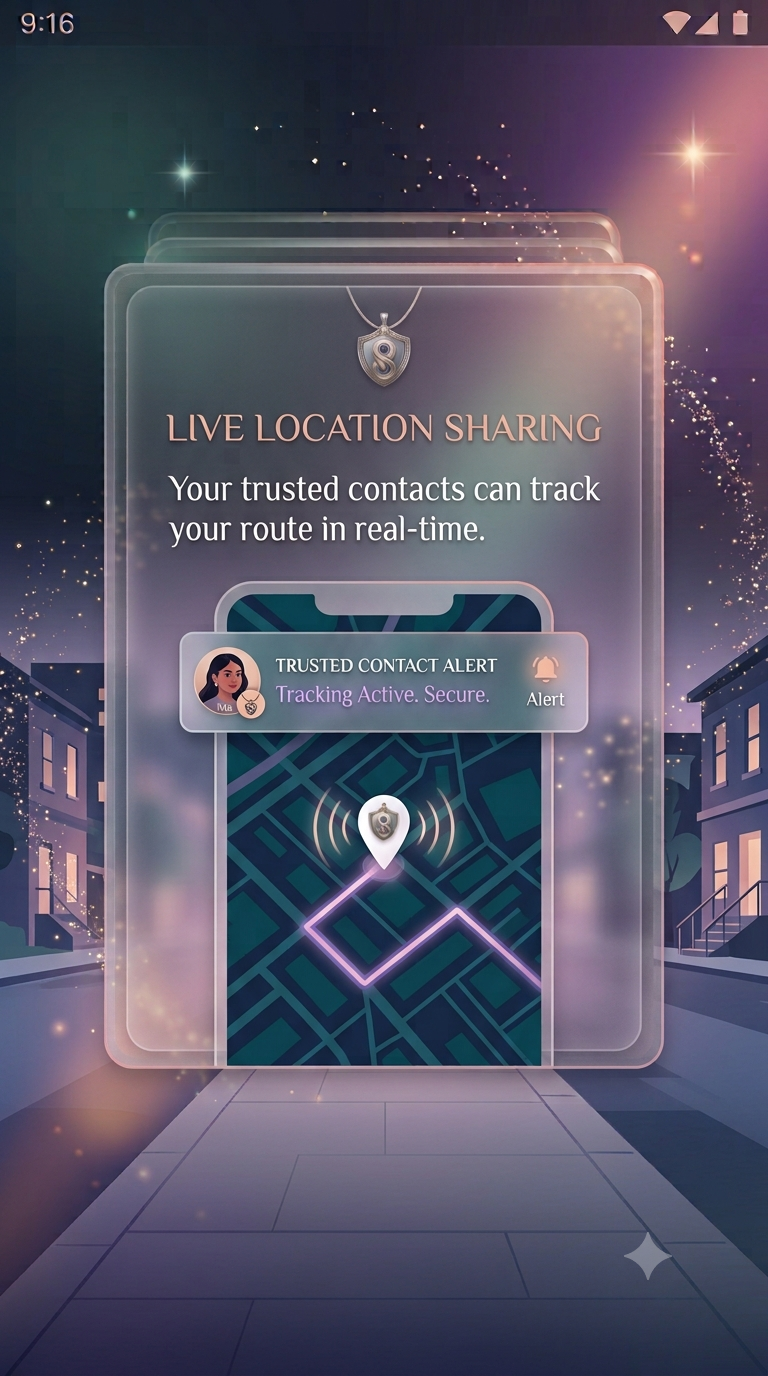
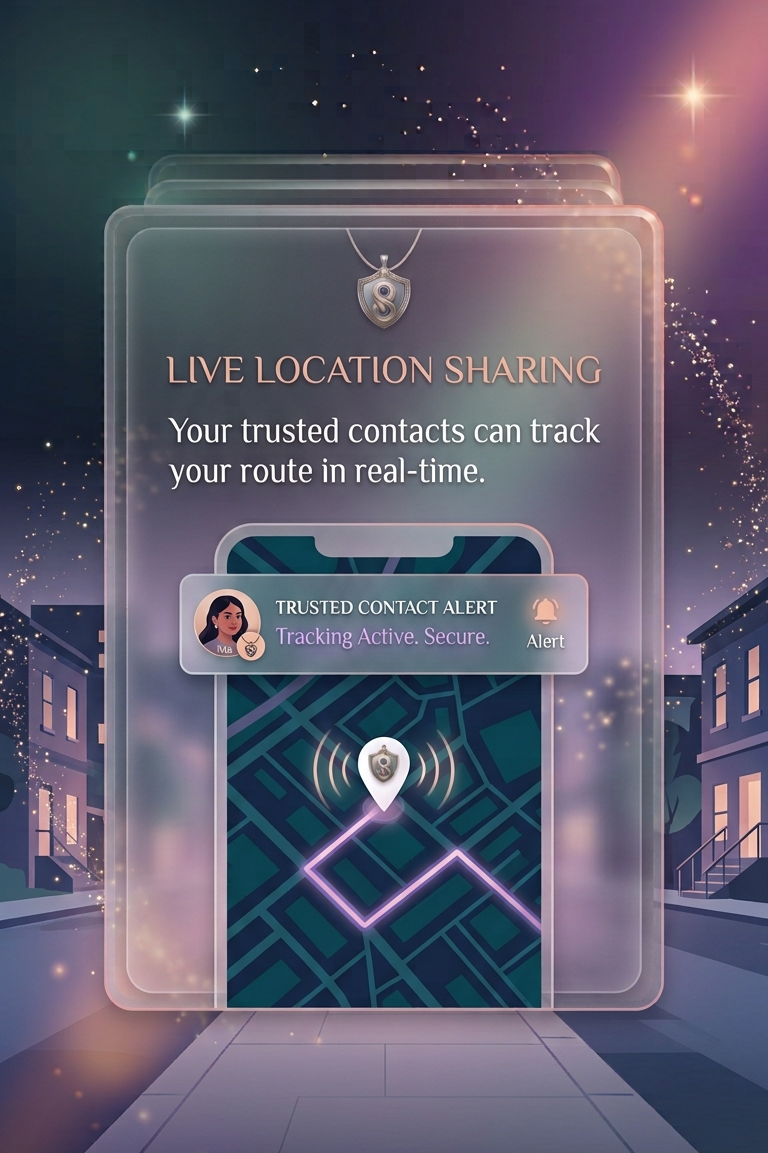
Added onboarding screen with Next button using BLoC

diff --git a/saferoute_saheli/lib/onboarding/onboarding2.dart b/saferoute_saheli/lib/onboarding/onboarding2.dart
@@ -1,0 +1,91 @@
+import 'package:flutter/material.dart';
+import 'package:flutter_bloc/flutter_bloc.dart';
+
+import '../blocs/onboarding/onboarding_bloc.dart';
+import '../widgets/next_button.dart';
+import 'login_screen.dart';
+
+class OnboardingScreen extends StatelessWidget {
+
+  const OnboardingScreen({super.key});
+
+  @override
+  Widget build(BuildContext context) {
+
+    return BlocConsumer<OnboardingBloc, OnboardingState>(
+
+      listener: (context, state) {
+
+        if (state is NavigateToLogin) {
+
+          Navigator.pushReplacement(
+            context,
+            MaterialPageRoute(
+              builder: (_) => const LoginScreen(),
+            ),
+          );
+
+        }
+
+      },
+
+      builder: (context, state) {
+
+        return Scaffold(
+
+          backgroundColor: Colors.black,
+
+          body: SafeArea(
+
+            child: Padding(
+
+              padding: const EdgeInsets.all(20),
+
+              child: Column(
+
+                children: [
+
+                  Expanded(
+
+                    child: Center(
+
+                      child: Image.asset(
+                        "assets/images/onboarding.png",
+                        fit: BoxFit.contain,
+                      ),
+
+                    ),
+
+                  ),
+
+                  NextButton(
+
+                    onPressed: () {
+
+                      context.read<OnboardingBloc>().add(
+                        NextPressed(),
+                      );
+
+                    },
+
+                  ),
+
+                  const SizedBox(height: 20),
+
+                ],
+
+              ),
+
+            ),
+
+          ),
+
+        );
+
+      },
+
+    );
+
+  }
+
+}

diff --git a/saferoute_saheli/lib/screens/onboarding_screen.dart b/saferoute_saheli/lib/screens/onboarding_screen.dart
@@ -1,0 +1,91 @@
+import 'package:flutter/material.dart';
+import 'package:flutter_bloc/flutter_bloc.dart';
+
+import '../blocs/onboarding/onboarding_bloc.dart';
+import '../widgets/next_button.dart';
+import 'login_screen.dart';
+
+class OnboardingScreen extends StatelessWidget {
+
+  const OnboardingScreen({super.key});
+
+  @override
+  Widget build(BuildContext context) {
+
+    return BlocConsumer<OnboardingBloc, OnboardingState>(
+
+      listener: (context, state) {
+
+        if (state is NavigateToLogin) {
+
+          Navigator.pushReplacement(
+            context,
+            MaterialPageRoute(
+              builder: (_) => const LoginScreen(),
+            ),
+          );
+
+        }
+
+      },
+
+      builder: (context, state) {
+
+        return Scaffold(
+
+          backgroundColor: Colors.black,
+
+          body: SafeArea(
+
+            child: Padding(
+
+              padding: const EdgeInsets.all(20),
+
+              child: Column(
+
+                children: [
+
+                  Expanded(
+
+                    child: Center(
+
+                      child: Image.asset(
+                        "assets/images/onboarding.png",
+                        fit: BoxFit.contain,
+                      ),
+
+                    ),
+
+                  ),
+
+                  NextButton(
+
+                    onPressed: () {
+
+                      context.read<OnboardingBloc>().add(
+                        NextPressed(),
+                      );
+
+                    },
+
+                  ),
+
+                  const SizedBox(height: 20),
+
+                ],
+
+              ),
+
+            ),
+
+          ),
+
+        );
+
+      },
+
+    );
+
+  }
+
+}

diff --git a/saferoute_saheli/lib/onboarding/widgets/next_button.dart b/saferoute_saheli/lib/onboarding/widgets/next_button.dart
@@ -1,0 +1,40 @@
+import 'package:flutter/material.dart';
+
+class NextButton extends StatelessWidget {
+
+  final VoidCallback onPressed;
+
+  const NextButton({
+    super.key,
+    required this.onPressed,
+  });
+
+  @override
+  Widget build(BuildContext context) {
+
+    return SizedBox(
+      width: double.infinity,
+      height: 55,
+      child: ElevatedButton(
+
+        style: ElevatedButton.styleFrom(
+          backgroundColor: Colors.deepPurple,
+          shape: RoundedRectangleBorder(
+            borderRadius: BorderRadius.circular(15),
+          ),
+        ),
+
+        onPressed: onPressed,
+
+        child: const Text(
+          "Next",
+          style: TextStyle(
+            color: Colors.white,
+            fontSize: 18,
+          ),
+        ),
+
+      ),
+    );
+  }
+}

diff --git a/saferoute_saheli/lib/screens/login_screen.dart b/saferoute_saheli/lib/screens/login_screen.dart
@@ -1,0 +1,25 @@
+import 'package:flutter/material.dart';
+
+class LoginScreen extends StatelessWidget {
+
+  const LoginScreen({super.key});
+
+  @override
+  Widget build(BuildContext context) {
+
+    return Scaffold(
+
+      appBar: AppBar(
+        title: const Text("Login"),
+      ),
+
+      body: const Center(
+        child: Text(
+          "Login Screen",
+          style: TextStyle(fontSize: 24),
+        ),
+      ),
+
+    );
+  }
+}

diff --git a/saferoute_saheli/lib/onboarding/bloc/onboarding_bloc.dart b/saferoute_saheli/lib/onboarding/bloc/onboarding_bloc.dart
@@ -1,0 +1,18 @@
+import 'package:flutter_bloc/flutter_bloc.dart';
+
+part 'onboarding_event.dart';
+part 'onboarding_state.dart';
+
+class OnboardingBloc extends Bloc<OnboardingEvent, OnboardingState> {
+
+  OnboardingBloc() : super(OnboardingInitial()) {
+
+    on<NextPressed>((event, emit) {
+
+      emit(NavigateToLogin());
+
+    });
+
+  }
+
+}

diff --git a/saferoute_saheli/lib/onboarding/bloc/onboarding_state.dart b/saferoute_saheli/lib/onboarding/bloc/onboarding_state.dart
@@ -1,0 +1,7 @@
+part of 'onboarding_bloc.dart';
+
+abstract class OnboardingState {}
+
+class OnboardingInitial extends OnboardingState {}
+
+class NavigateToLogin extends OnboardingState {}

diff --git a/saferoute_saheli/lib/onboarding/bloc/onboarding_event.dart b/saferoute_saheli/lib/onboarding/bloc/onboarding_event.dart
@@ -1,0 +1,5 @@
+part of 'onboarding_bloc.dart';
+
+abstract class OnboardingEvent {}
+
+class NextPressed extends OnboardingEvent {}